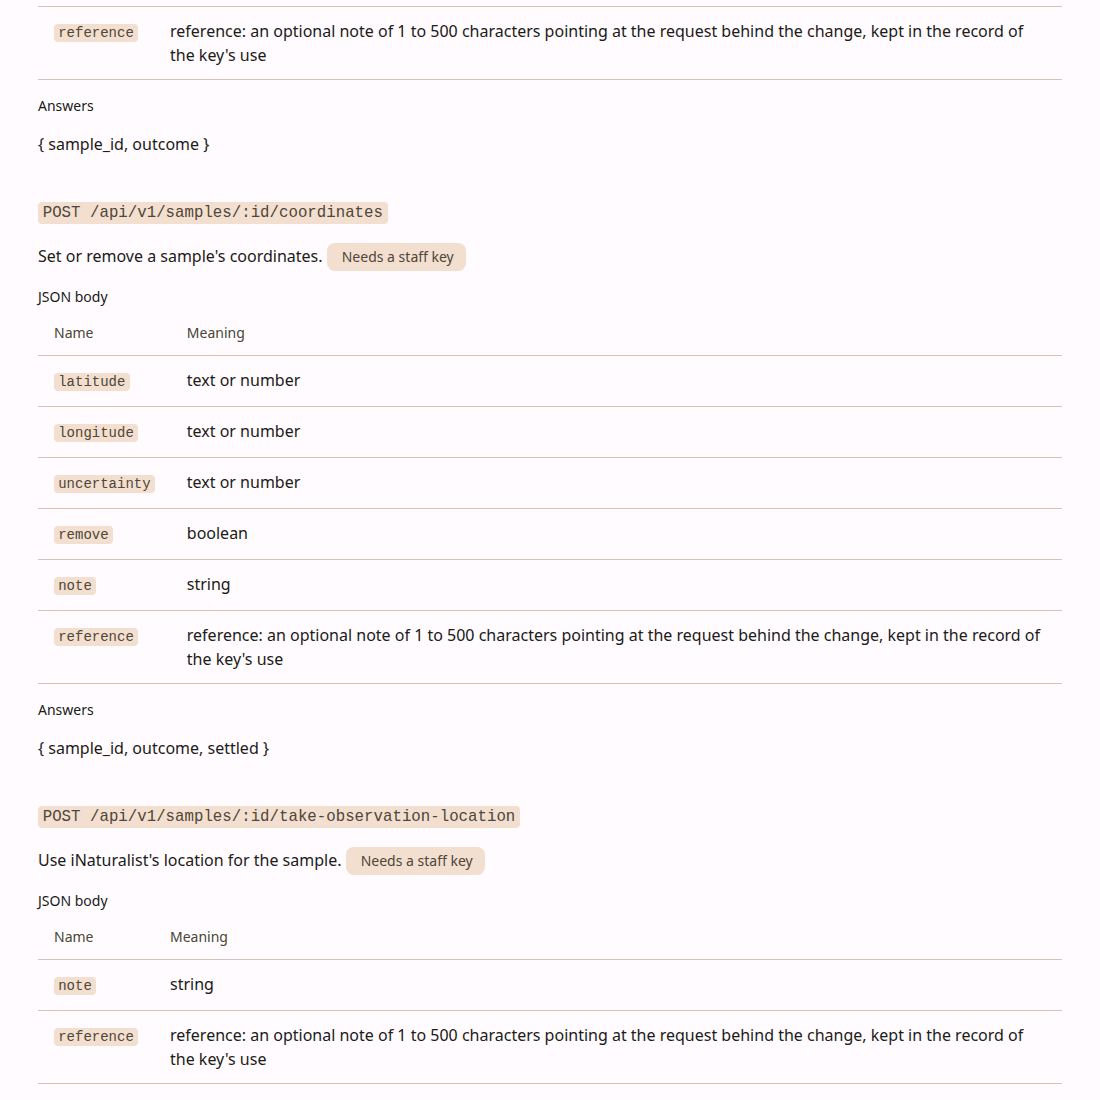
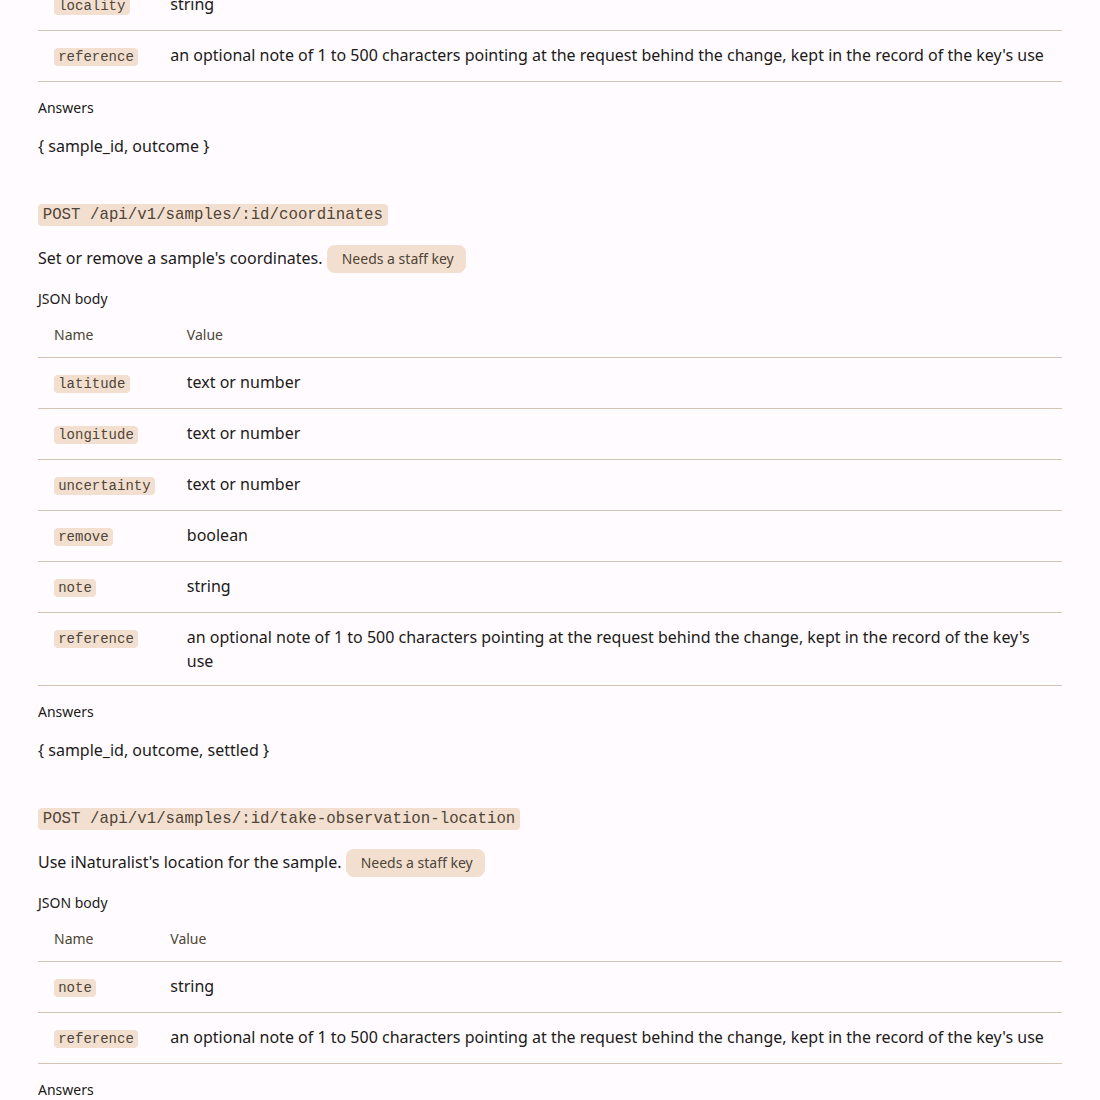
Head the API page's body tables Value and drop the repeated field name (beeline-jbbc)

diff --git a/src/app/views/api-docs.tsx b/src/app/views/api-docs.tsx
@@ -12,10 +12,21 @@ const NEEDED_SCOPE: Record<string, KeyScope> = { "any key": "read", "edit key": 
 const anchor = (method: string, path: string) => `${method}-${path}`.toLowerCase().replace(/[^a-z0-9]+/g, "-").replace(/-+$/, "");
 
 /** `Param`s of an endpoint: a name, what it means, and the values it takes where that is a list. */
-function NameTable({ m, rows, withValues }: { m: Messages; rows: Array<[string, string, readonly string[] | undefined]>; withValues: boolean }) {
+function NameTable({
+  m,
+  rows,
+  withValues,
+  second = m.keys.docs.endpoints.meaning,
+}: {
+  m: Messages;
+  rows: Array<[string, string, readonly string[] | undefined]>;
+  withValues: boolean;
+  /** The heading of the second column: "Meaning" for what a parameter means, "Value" for what a body field holds. */
+  second?: string;
+}) {
   const d = m.keys.docs.endpoints;
   return (
-    <DataTable columns={withValues ? [d.name, d.meaning, d.values] : [d.name, d.meaning]}>
+    <DataTable columns={withValues ? [d.name, second, d.values] : [d.name, second]}>
       {rows.map(([name, meaning, values]) => (
         <tr>
           <td>
@@ -105,7 +116,12 @@ export function ApiDocs({ m, description, scopes }: { m: Messages; description: 
             (spec as { values?: readonly string[] }).values,
           ],
         );
-        const body = Object.entries(e.body ?? {}).map(([name, what]): [string, string, undefined] => [name, what, undefined]);
+        // The description's own text for a field sometimes starts with the field's name ("reference: an optional note..."), which the row already shows.
+        const body = Object.entries(e.body ?? {}).map(([name, what]): [string, string, undefined] => [
+          name,
+          what.startsWith(`${name}: `) ? what.slice(name.length + 2) : what,
+          undefined,
+        ]);
         return (
           <section class="api-endpoint" id={anchor(e.method, e.path)}>
             <h3>
@@ -134,7 +150,7 @@ export function ApiDocs({ m, description, scopes }: { m: Messages; description: 
             {body.length > 0 && (
               <>
                 <h4>{d.endpoints.body}</h4>
-                <NameTable m={m} rows={body} withValues={false} />
+                <NameTable m={m} rows={body} withValues={false} second={d.endpoints.value} />
               </>
             )}
             <h4>{d.endpoints.answers}</h4>

diff --git a/test/api-keys.test.ts b/test/api-keys.test.ts
@@ -241,6 +241,18 @@ describe("the API page, /keys", () => {
     expect(html).toContain(`${ORIGIN}/api/v1`);
   });
 
+  it("heads a body table Value, and does not repeat a field's name in its row", async () => {
+    const { app } = await fixture({ admin: true });
+    const html = await (await app.request("/keys")).text();
+    const bodyTable = /<h4>JSON body<\/h4>[\s\S]*?<\/table>/.exec(html)![0];
+    expect(bodyTable).toContain("<th>Value</th>");
+    expect(bodyTable).not.toContain("<th>Meaning</th>");
+    expect(html).toContain("<td>an optional note of 1 to 500 characters");
+    expect(html).not.toContain("reference: an optional note");
+    // Query parameters keep Meaning.
+    expect(/<h4>Parameters<\/h4>[\s\S]*?<\/table>/.exec(html)![0]).toContain("<th>Meaning</th>");
+  });
+
   it("marks what a volunteer cannot make a key for, and still lists it", async () => {
     const { app } = await fixture({ admin: false });
     const html = await (await app.request("/keys")).text();

diff --git a/src/app/messages/en.ts b/src/app/messages/en.ts
@@ -2020,6 +2020,7 @@ export const en = {
         answers: "Answers",
         name: "Name",
         meaning: "Meaning",
+        value: "Value",
         values: "Allowed values",
       },
       columns: {
